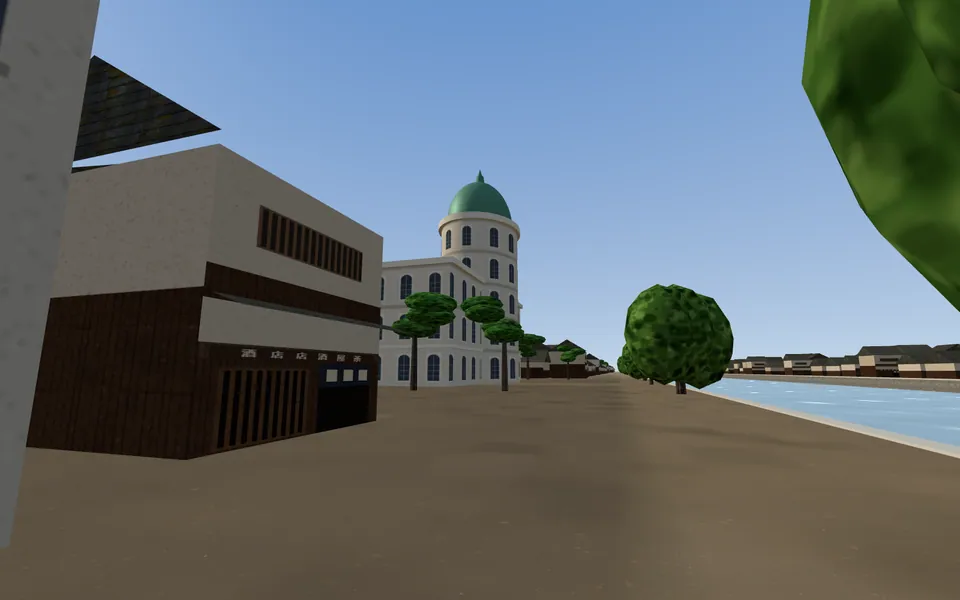
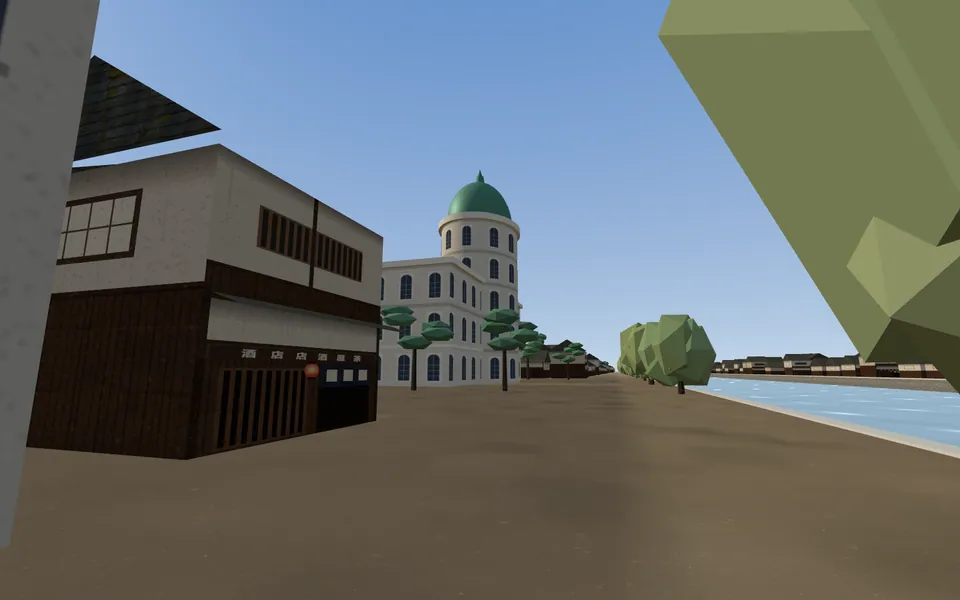
Hiroshima: darker, varied trees; irregular fire under the cloud cap; more detailed house fronts; new card pictures

diff --git a/lessons/hiroshima/src/world/textures.js b/lessons/hiroshima/src/world/textures.js
@@ -49,7 +49,9 @@ function grain(g, w, h, amount = 0.08, rand = Math.random, size = 2) {
  */
 export function houseTexture(burnt = false) {
   const W = 1024, H = 256;
-  const [c, g] = canvas(W, H);
+  // drawn at twice the size (sharper up close), in the same 1024 × 256 layout
+  const [c, g] = canvas(W * 2, H * 2);
+  g.scale(2, 2);
   const r = rng(burnt ? 7 : 3);
   const board = (x, w, y, h, base) => {
     g.fillStyle = base;
@@ -103,6 +105,56 @@ export function houseTexture(burnt = false) {
   g.fillRect(768, 0, 256, H);
   board(768, 256, 200, 56, wood);
   lattice(820, 150, 70, 80, 4, 10, woodLight);
+  // the timber frame showing through the plaster: posts at the corners and a beam under each plaster band
+  const post = burnt ? '#141110' : '#3b2b20';
+  g.fillStyle = post;
+  for (const [x, y, w, h] of [[0, 0, 7, H], [249, 0, 7, H], [256, 0, 7, H], [505, 0, 7, H], [512, 0, 7, H], [761, 0, 7, H], [768, 0, 7, H], [1017, 0, 7, H], [0, 66, 256, 6], [256, 76, 256, 6], [512, 116, 256, 6], [768, 196, 256, 6], [884, 0, 6, 200]]) g.fillRect(x, y, w, h);
+  // a small paper-screen window (shoji) high in the side wall
+  g.fillStyle = burnt ? '#1a1513' : '#4a3628';
+  g.fillRect(588, 28, 104, 62);
+  g.fillStyle = burnt ? '#2b2420' : '#ebe4d2';
+  g.fillRect(594, 34, 92, 50);
+  g.fillStyle = burnt ? '#1a1513' : '#6b5040';
+  for (let i = 1; i < 4; i++) g.fillRect(594 + i * 23, 34, 2, 50);
+  g.fillRect(594, 58, 92, 2);
+  if (!burnt) {
+    // a paper lantern (chochin) by the shop's doorway, and a potted plant by the home's door
+    const lg = g.createRadialGradient(128, 112, 2, 128, 112, 16);
+    lg.addColorStop(0, '#f4e3b8');
+    lg.addColorStop(1, '#c9452f');
+    g.fillStyle = lg;
+    g.beginPath();
+    g.ellipse(128, 114, 11, 16, 0, 0, Math.PI * 2);
+    g.fill();
+    g.fillStyle = '#2a1d16';
+    g.fillRect(122, 96, 12, 4);
+    g.fillRect(122, 128, 12, 4);
+    g.fillStyle = '#6f4a32';
+    g.fillRect(374, 228, 20, 22);
+    g.fillStyle = '#3f5a2f';
+    g.beginPath();
+    g.ellipse(384, 220, 16, 12, 0, 0, Math.PI * 2);
+    g.fill();
+  }
+  // shade under the eaves at the top, and the splash of dust and mud along the foot of every wall
+  for (const x of [0, 256, 512, 768]) {
+    const top = g.createLinearGradient(0, 0, 0, 34);
+    top.addColorStop(0, 'rgba(20,14,10,0.45)');
+    top.addColorStop(1, 'rgba(20,14,10,0)');
+    g.fillStyle = top;
+    g.fillRect(x, 0, 256, 34);
+    const foot = g.createLinearGradient(0, H - 26, 0, H);
+    foot.addColorStop(0, 'rgba(70,55,40,0)');
+    foot.addColorStop(1, burnt ? 'rgba(10,8,7,0.6)' : 'rgba(70,55,40,0.55)');
+    g.fillStyle = foot;
+    g.fillRect(x, H - 26, 256, 26);
+  }
+  // faint rain streaks down the plaster
+  for (let i = 0; i < 40; i++) {
+    const x = r() * W;
+    g.fillStyle = `rgba(60,50,40,${0.04 + r() * 0.06})`;
+    g.fillRect(x, r() * 40, 1 + r() * 2, 30 + r() * 80);
+  }
   grain(g, W, H, burnt ? 0.2 : 0.12, r);
   const t0 = tex(c);
   // real weathered wood (CC0, Poly Haven) laid over the boarded parts, once it has loaded

diff --git a/lessons/hiroshima/src/world/Fires.js b/lessons/hiroshima/src/world/Fires.js
@@ -80,6 +80,17 @@ export class MushroomCloud {
     this.cap = Array.from({ length: 120 }, () => ({ th: r() * Math.PI * 2, ph: r() * Math.PI * 2, rr: Math.sqrt(r()), s: 0.6 + r() * 0.45, top: r() < 0.28 }));
     this.stem = Array.from({ length: 70 }, () => ({ h: r(), th: r() * Math.PI * 2, rr: r(), s: 0.8 + r() * 0.6 }));
     this.skirt = Array.from({ length: 40 }, () => ({ th: r() * Math.PI * 2, rr: 0.5 + r() * 0.6, s: 0.7 + r() * 0.6 }));
+    // the fire under the cap: uneven tongues and pockets of glow, bunched in places and missing in others (not a
+    // neat ring), each flickering at its own pace, some deep red, some orange, a few yellow-white where it is hottest
+    this.flames = [];
+    let th = r() * Math.PI * 2;
+    while (this.flames.length < 36) {
+      th += 0.05 + r() * r() * 0.9; // mostly close together, now and then a gap
+      const n = 1 + Math.floor(r() * 3);
+      for (let k = 0; k < n && this.flames.length < 36; k++) {
+        this.flames.push({ th: th + (r() - 0.5) * 0.25, rr: 0.18 + r() * 0.62, dy: (r() - 0.6) * 0.32, s: 0.25 + r() * r() * 0.75, heat: r(), f: 2 + r() * 5, ph: r() * 6, drift: (r() - 0.5) * 0.4 });
+      }
+    }
     this.visible = false;
   }
 
@@ -139,10 +150,14 @@ export class MushroomCloud {
       const c = fire(hot * (0.35 + 0.65 * under), [light, light * (0.96 - under * 0.08), light * (0.9 - under * 0.15)]);
       P.add(x, y, z, Rc * 0.75 * p.s, c, 0.5, p.th);
     }
-    // the fire glowing in the underside of the cap while it is young
-    if (hot > 0) for (let i = 0; i < 28; i++) {
-      const t = (i / 28) * Math.PI * 2 + roll * 0.5;
-      G.add(x0 + Math.cos(t) * Rc * 0.62, Hc - Rc * 0.15, z0 + Math.sin(t) * Rc * 0.62, Rc * 0.6, [1, 0.5, 0.18], 0.45 * hot, t);
+    // the fire glowing in the underside of the cap while it is young: irregular, flickering, turning with the roll
+    if (hot > 0) for (const f of this.flames) {
+      const t = f.th + roll * (0.35 + f.drift);
+      const flick = 0.6 + 0.4 * Math.sin(age * f.f + f.ph) * Math.sin(age * f.f * 0.37 + f.ph * 2);
+      const rad = Rc * (f.rr + 0.06 * Math.sin(age * 0.7 + f.ph));
+      const heat = Math.min(1, f.heat * (0.6 + 0.6 * hot));
+      const col = heat > 0.92 ? [1, 0.74, 0.42] : heat > 0.45 ? [1, 0.45 + heat * 0.15, 0.12] : [0.85, 0.22 + heat * 0.3, 0.07];
+      G.add(x0 + Math.cos(t) * rad, Hc - Rc * (0.12 - f.dy), z0 + Math.sin(t) * rad, Rc * f.s * (0.85 + 0.3 * flick), col, 0.42 * hot * flick, t * 3 + f.ph);
     }
     P.commit();
     G.commit();

diff --git a/lessons/hiroshima/src/world/City.js b/lessons/hiroshima/src/world/City.js
@@ -561,7 +561,14 @@ export class City {
         continue;
       }
       trunks.push({ x: t.x, z: t.z, sx: 0.25 * s, sy: h * 0.7, sz: 0.25 * s, ry: r() * 6 });
-      const tone = () => new THREE.Color().setHSL(t.kind === 'pine' ? 0.3 : t.kind === 'willow' ? 0.2 : 0.26, 0.28 + r() * 0.1, (era === 'today' ? 0.3 : 0.27) + r() * 0.12);
+      // Leaf tones: darker than they look on paper (strong sun on flat-shaded leaves bleaches them), each tree its own
+      // shade (deep blue-green camphor and pine, olive, a few fresher greens; willows lighter), each clump a little
+      // lighter or darker than its tree.
+      const base = t.kind === 'pine' ? [0.34 + r() * 0.06, 0.32 + r() * 0.12, 0.12 + r() * 0.06]
+        : t.kind === 'willow' ? [0.21 + r() * 0.04, 0.34 + r() * 0.12, 0.22 + r() * 0.07]
+          : [0.23 + r() * 0.12, 0.3 + r() * 0.2, 0.13 + r() * 0.09];
+      if (era === 'today') base[2] += 0.02;
+      const tone = () => new THREE.Color().setHSL(base[0] + (r() - 0.5) * 0.025, base[1], Math.max(0.07, base[2] + (r() - 0.5) * 0.07));
       const clumps = t.kind === 'pine' ? 5 : 6;
       for (let k = 0; k < clumps; k++) {
         const a = r() * Math.PI * 2, o = (k === 0 ? 0 : 0.9 + r() * 0.5) * s;
